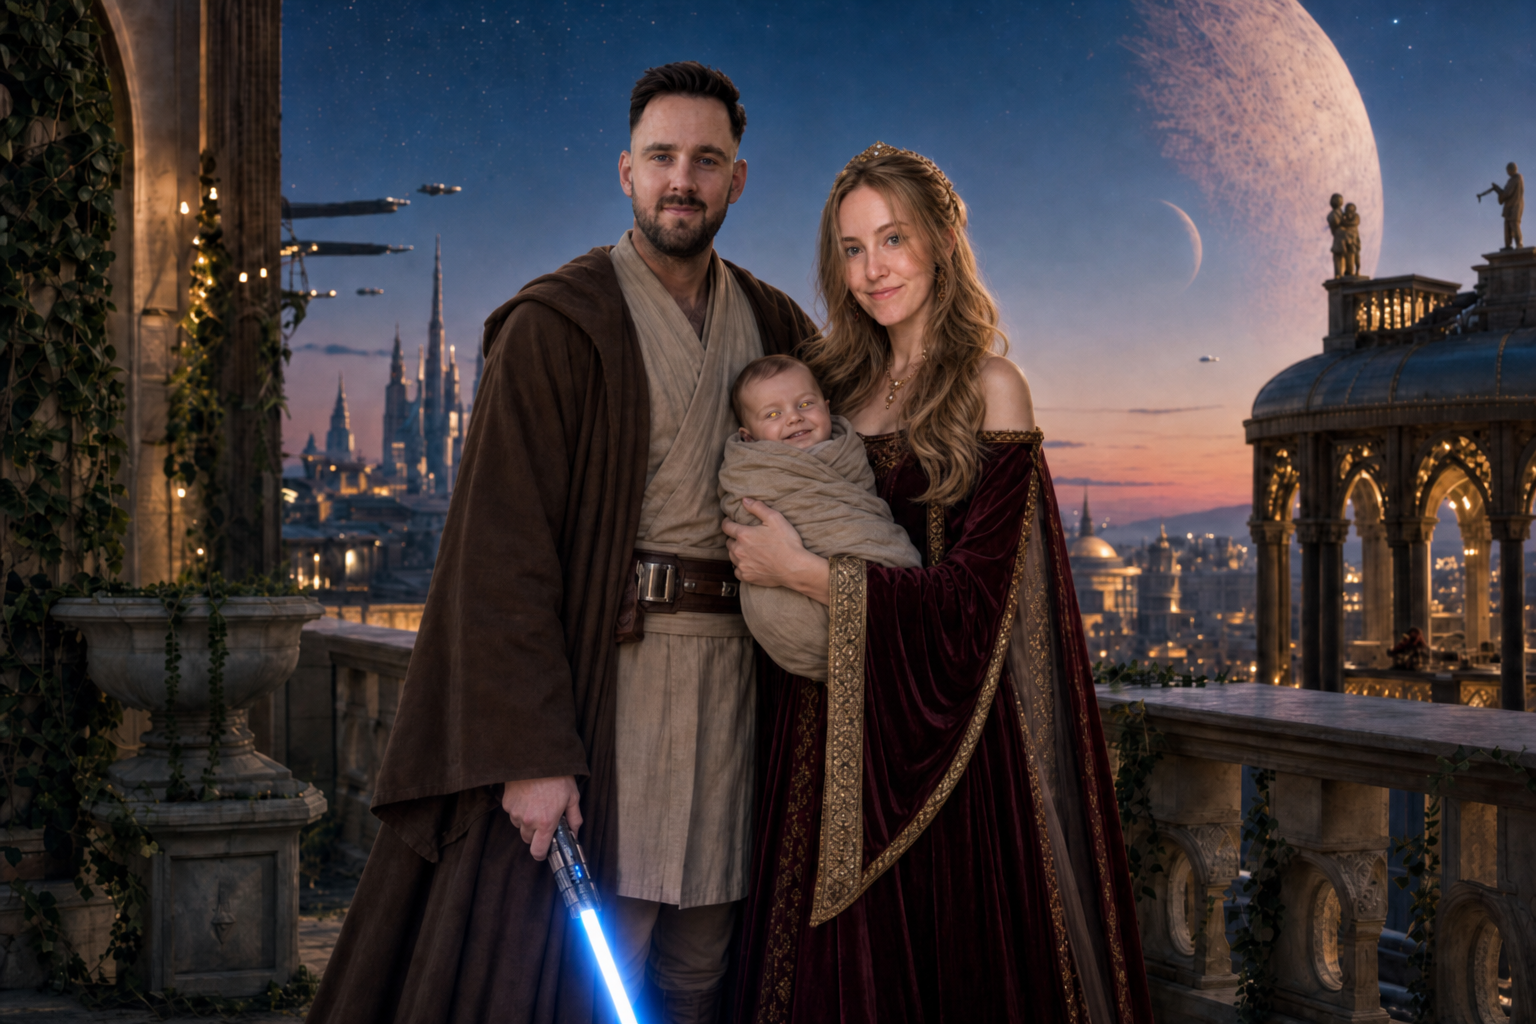
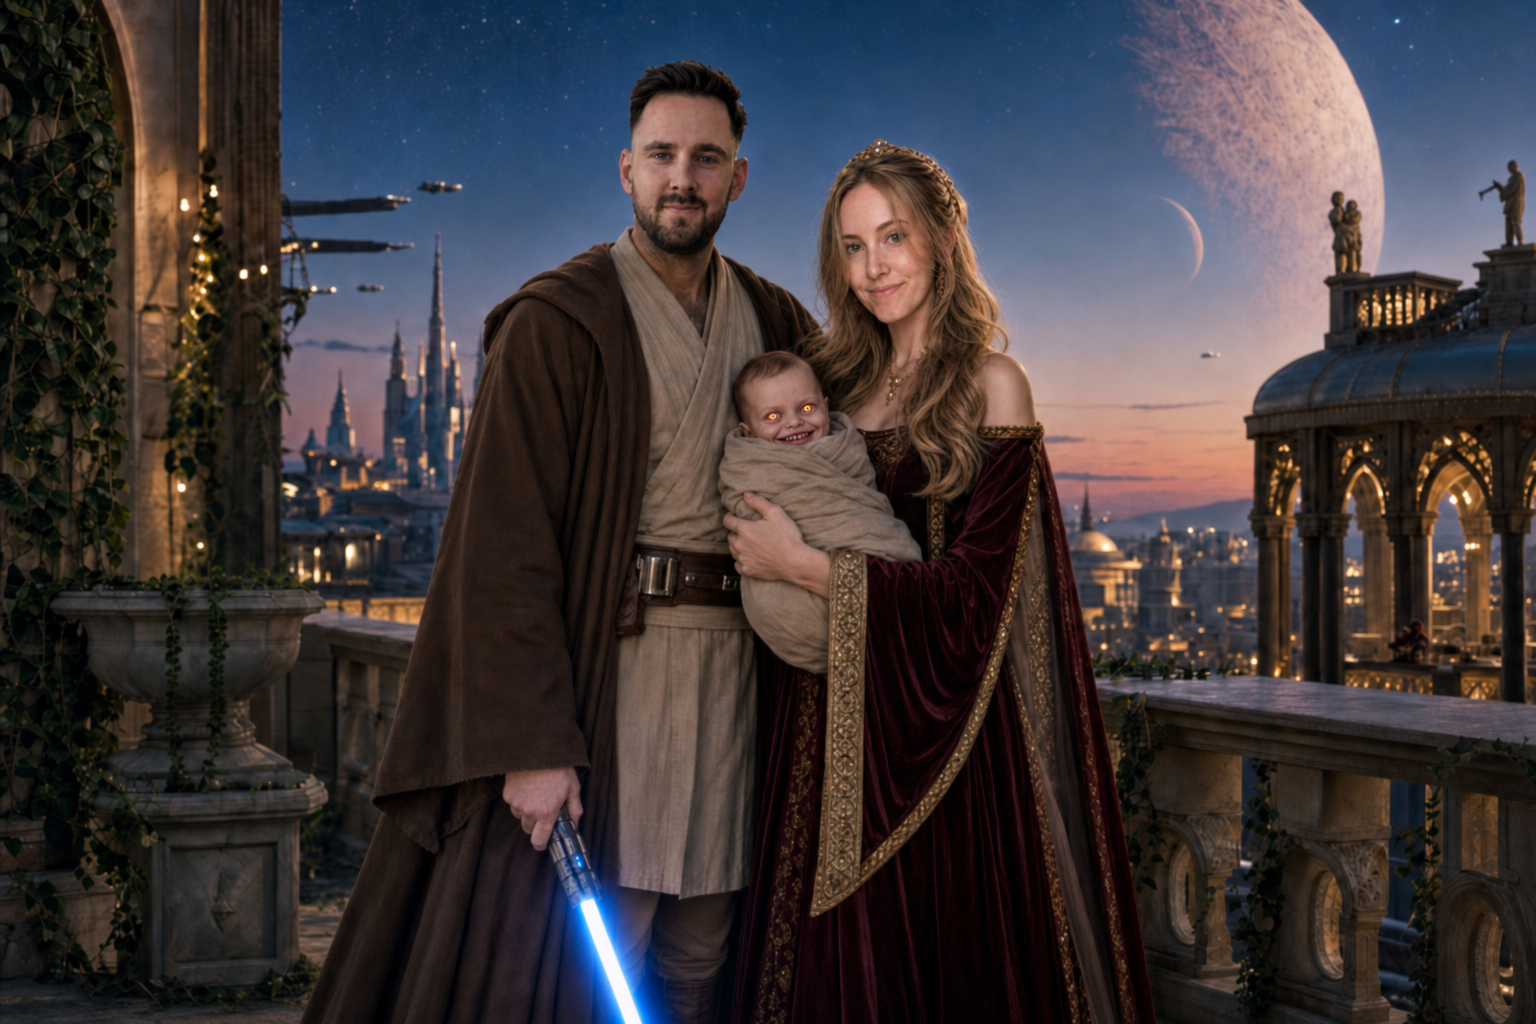
Maak de jongen-greins sinisterder zodat de dark-side hint echt landt.

diff --git a/index.html b/index.html
@@ -307,12 +307,12 @@
       <div class="reveal-fotos">
         <figure class="reveal-foto reveal-morph">
           <img
-            src="fotos/max-marjean-baby-reveal-normaal.png"
+            src="fotos/max-marjean-baby-reveal-normaal.png?v=2"
             alt="Max en Marjean met hun zoon: eerst een rustig gezicht, dan een greins met amberkleurige ogen"
           />
           <img
             class="reveal-morph-grin"
-            src="fotos/max-marjean-baby-reveal-greins.png"
+            src="fotos/max-marjean-baby-reveal-greins.png?v=2"
             alt=""
             aria-hidden="true"
           />
